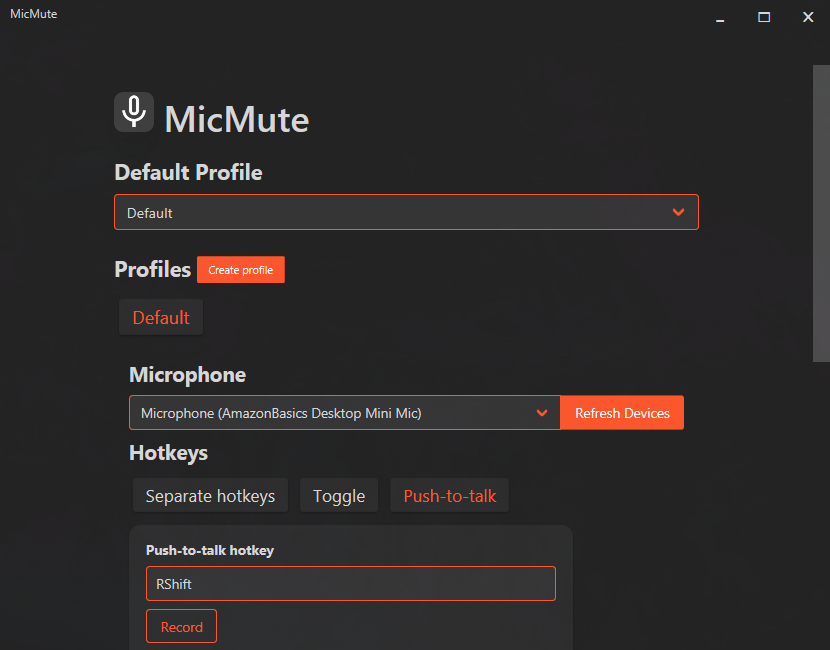
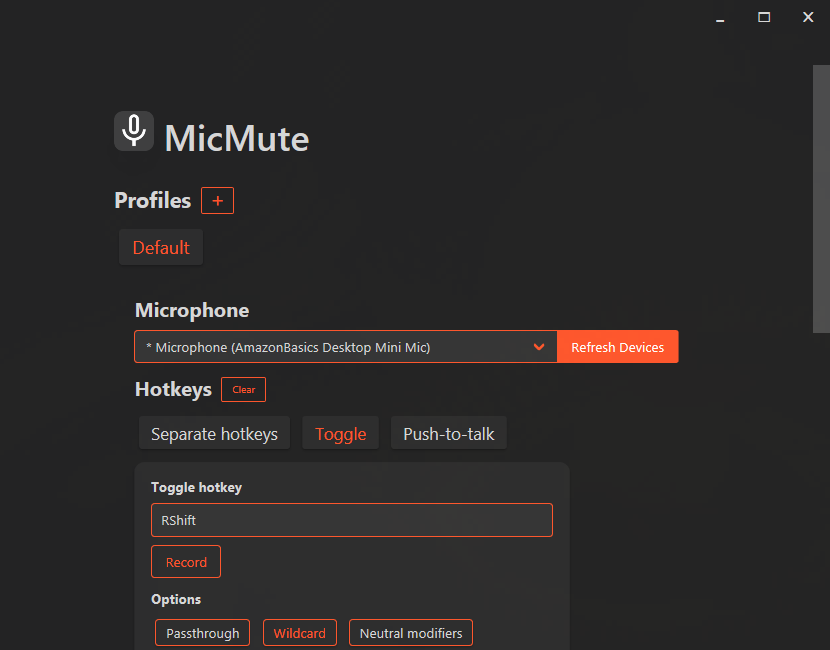
Update README.md

diff --git a/README.md b/README.md
@@ -15,151 +15,203 @@
 ## Features
 
    * Set up multiple profiles and link them to apps/games
+   * Control multiple microphones simultaneously 
    * Use separate hotkeys for Mute/Unmute or a single toggle/push-to-talk hotkey
-   * Optional sound and on-screen feedback
-   * AFK timeout (auto mute when the user is AFK for longer than a specified time interval)
-   * Auto-start on boot
-   * Very lightweight ( File size ≈ 1MB, CPU usage ≤ 1%, Memory usage ≤ 20MB )
-## Install using [Scoop](https://scoop.sh)
+   * Optional sound and on-screen feedback with ability to use custom sounds
+   * AFK timeout (auto mute when idling for longer than a specific time interval)
 
-   ```powershell
-      # Add the extras bucket
-      scoop bucket add extras
-      # Install MicMute
-      scoop install micmute
-   ```
-   ###### You can update MicMute using `scoop update micmute`, your config file will be saved between updates.
+## Installation
+### A. Install using [Scoop](https://scoop.sh)
 
-## Use standalone executable
-   You can [download MicMute](https://github.com/SaifAqqad/AHK_MicMute/releases/latest/download/MicMute.exe) and use it standalone.
+```powershell
+# Add the extras bucket
+scoop bucket add extras
+
+# Install MicMute
+scoop install micmute
+```
+
+   <small> You can update MicMute using `scoop update micmute`, your config file will be saved between updates.</small>
+
+### B. Use standalone executable
+   You can download [MicMute](https://github.com/SaifAqqad/AHK_MicMute/releases/latest/download/MicMute.exe) and use it standalone.
 
 ## Usage
+![The first time you launch MicMute, a configuration window will open](.\src\resources\configwindow_1.png)      
+<small>The first time you launch MicMute, a configuration window will open</small>
 
-On the first run, you'll be asked to set up a profile:
+1. Select your microphone from the list.
+2. Choose the hotkey type (Toggle, Push-to-talk or seperate hotkeys).
+3. Select the hotkey options you want. see [hotkey options](#Hotkey%20options).
+4. Click Record and press the key(s) combination for the hotkey, then click on Stop to save it.
+5. Select the feedback options you want. see [feedback options](#Feedback%20options).
+6. If you're setting up multiple profiles, you can link a profile to an app/game. see [linked applications](#Linked%20applications).
+7. If you want the microphone to be auto muted when you idle, type the amount of minutes to wait under AFK timeout.
+8. If you're setting up a PTT hotkey, you can change the delay between releasing the key and the audio cutting off by changing the PTT delay option.
+9. Click on Save profile.
 
-![](./src/resources/firstsetupdialog.png)
+### Notes
+* You can change a profile's name by right clicking it.
+* When Changing the microphone, make sure to clear the hotkey for the previous one before setting up the new one.
+* When you set up a hotkey for a microphone, a `*` will appear before the microphone's name
+<hr>
 
-Click OK and a new configuration window will open:
+### Hotkey options
+| Option            | Description                                                                                                                                                                                                                                                  |
+|-------------------|--------------------------------------------------------------------------------------------------------------------------------------------------------------------------------------------------------------------------------------------------------------|
+| Passthrough       | If this is turned off, the hotkey will only work for MicMute and will be hidden from the rest of the system. So turn this on if you want the hotkey to work for other apps.                                                                                  |
+| Wildcard          | If this is turned on, the hotkey will work even if you press extra modifiers, so for example if the hotkey is `Ctrl + M` and you press `Ctrl + Shift + M` , the hotkey will still be triggered.                                                              |
+| Neutral modifiers | If this is turned off, the hotkey can have a specific modifier (Right or Left) instead of a neutral one (example: `RCtrl` instead of `Ctrl`, this will only be triggered by the right control key). This option should be set *before* recording the hotkey. |
+<hr>
 
-![](./src/resources/configwindow_1.png)
+### Feedback options
+#### 1. Sound feedback
+Play a sound when muting/unmuting the microphones. You can also use [custom sounds](#1.%20Custom%20sounds).
+#### 2. On-screen feedback
+Show an OSD when muting/unmuting the microphones. 
 
+* You can change the OSD position (default position is the bottom center of the screen, above the taskbar).
+* You can exclude fullscreen apps/games from the OSD, this is needed for some games that lose focus when the OSD is shown.
 
-1. Choose your microphone from the drop down list.
+<details>
+<summary>OSD.gif</summary>
 
-2. Choose whether you want separate hotkeys for Mute and Unmute or a single Toggle/Push-to-talk hotkey.
-
-      ![](./src/resources/configwindow_2.png)
-
-
-3. Based on your choice, you will either need to setup both hotkeys or just one of them.
-        
-   - Click on 'Record' then press the key(s) you want.
-   - Turn on 'Wildcard' if you want the hotkey to be fired even if extra modifiers/keys are held down.
-   - Turn on 'Passthrough' if you don't want the key's native function to be blocked/hidden from the system.
-   - Turn off "Neutral modifiers" if you want to specify which key of the modifier pair to use (i.e. `Left Alt` or `Right Alt` instead of `Alt`) .
-      
-      ##### Using a neutral modifier (i.e. Alt) alone as a hotkey will turn on passthrough
-   
-4. Choose whether you want sound feedback when muting/unmuting the microphone or on-screen feedback or both.
-
-
-
-   <details><summary>On screen feedback</summary>
-   
-   ![](./src/resources/OSD.gif)
-   
-   </details>
-
-5. Choose whether you want the OSD to exclude fullscreen apps/games (this is needed for games that lose focus when the OSD is shown).
-
-7. Set up "AFK Timeout" if you want the microphone to be muted when you idle for longer than a set interval (in minutes).
-
-8. Click on "Select app" and choose an app's executable if you want to link the profile to that app (switch to the profile when the app is launched and switch back to default when it is closed)
-
-9. Click "Save profile"
-
-<details><summary><b>You can change the profile's name by right clicking the profile tag</b></summary> 
-
-![](./src/resources/edit_name.gif)
+![OSD](.\src\resources\OSD.gif)
 </details>
+<hr>
 
-#### Some options are not available in the GUI but can be changed in the [config file](#editing-the-config-file):
-* Mute on startup [#13](https://github.com/SaifAqqad/AHK_MicMute/issues/13)
-* Use custom sounds [#14](https://github.com/SaifAqqad/AHK_MicMute/issues/14)
-* Turn off switching-profile-osd [#15](https://github.com/SaifAqqad/AHK_MicMute/discussions/15)
+### Linked applications
+Link a profile to an app/game, when the app is launched, MicMute automatically switches to that profile, when the app closes, MicMute switches back to the default profile.
+<hr>
+
+### Global options
+These options are shared between all profiles.
+#### 1. Custom sounds
+ To use custom feedback sounds, turn on the option in the config UI, then make sure the sound files (`mp3`,`wav`) are in the same directory as `MicMute.exe` and rename them as:
+
+* **Mute sound**: `mute` 
+
+* **Unmute sound**: `unmute` 
+
+* **PTT on**: `ptt_on` 
+
+* **PTT off**: `ptt_off`
+
+#### 2. Mute on startup
+Mute the profile's microphones when switching to it.
+#### 3. Switching-profile OSD
+Show an OSD with the profile's name when switching to it.
+#### 4. UI Theme
+UI Theme can be set to `System Theme`, `Dark` or `Light`
+
+<small>This does *not* affect the tray icon color, which is always based on the system theme</small>
+<hr>
+
+### Controlling multiple microphones
+Starting with version [0.9.0](https://github.com/SaifAqqad/AHK_MicMute/releases/tag/0.9.0), You can have active hotkeys for multiple microphones simultaneously.
+To do this, just select another microphone from the list and setup hotkeys for it.
+
+When using this feature, the following applies:
+
+* The tray icon will be the static MicMute icon
+* The tray icon no longer acts as a toggle button, and the tray menu option to toggle the microphone is disabled.
+* The [On-screen feedback](#2.%20On-screen%20feedback) OSD will show the microphone name when muting/unmuting
+<hr>
+  
 ## Editing the config file
- Hold shift when asked to setup a profile or when clicking "Edit configuration" from the tray menu, and the config file will open in a text editor
+ Hold shift when asked to setup a profile or when clicking "Edit configuration" from the tray menu, and the config file will open in the default JSON editor
 
 ```json
 //config.json example 
 {
     "DefaultProfile": "Default",
     "MuteOnStartup": 0,
+    "PreferTheme": -1,
+    "SwitchProfileOSD": 1,
+    "UseCustomSounds": 0,
     "Profiles": [
         {
-            "afkTimeout": 2,
-            "ExcludeFullscreen": 1,
+            "afkTimeout": 0,
+            "ExcludeFullscreen": 0,
             "LinkedApp": "",
-            "Microphone": "Microphone (AmazonBasics Desktop Mini Mic)",
-            "MuteHotkey": "*RShift",
+            "Microphone": [
+                {
+                    "MuteHotkey": "~*RShift",
+                    "Name": "Default",
+                    "PushToTalk": 0,
+                    "UnmuteHotkey": "~*RShift"
+                }
+            ],
             "OnscreenFeedback": 1,
             "OSDPos": {
-                "x": "96",
-                "y": "998"
+                "x": -1,
+                "y": -1
             },
             "ProfileName": "Default",
-            "PushToTalk": 0,
+            "PTTDelay": 100,
             "SoundFeedback": 1,
-            "UnmuteHotkey": "*RShift",
             "UpdateWithSystem": 1
         }
-    ],
-    "SwitchProfileOSD": 1,
-    "UseCustomSounds": 0
+    ]
 }
 ```
-### Custom sounds
-To use custom feedback sounds, set `UseCustomSounds` to `1` then put the sound files (`mp3`,`wav`...) in the same directory as `MicMute.exe` and rename them as:
 
-**Mute sound**: `mute` 
+## CLI arguments
+| Argument                  | Description                                                                       |
+|---------------------------|-----------------------------------------------------------------------------------|
+| `/profile=<profile name>` | Startup with a specific profile.                                                  |
+| `/noUI`                   | Disable the configuration UI completely. This makes MicMute use alot less memory. |
+| `/debug`                  | Add shortcuts to `ListVars`, `ListHotkeys` and `listKeys`  in the tray menu.      |
 
-**Unmute sound**: `unmute` 
-
-**PTT on**: `ptt_on` 
-
-**PTT off**: `ptt_off`
-
+Example: `MicMute.exe "/profile=profile 1" /noUI /debug`
 ## Compile instructions
-##### Install [Scoop](https://scoop.sh) then run these commands in powershell
-1. Clone the repository
+<small>Note: Starting with version [0.9.0](https://github.com/SaifAqqad/AHK_MicMute/releases/tag/0.9.0), You can run `MicMute.ahk` directly without compiling it.</small>
+
+### 1. Install prerequisites
+You will need [AutoHotkey](https://www.autohotkey.com/), [upx](https://upx.github.io/) and [git](https://git-scm.com/download/win).
+
+You can install them using [scoop](https://scoop.sh):
+
+1. Install scoop 
     ```powershell
-    git clone https://github.com/SaifAqqad/AHK_MicMute.git;
-    cd .\AHK_MicMute\;
+    # This allows running powershell scripts 
+    # that are signed by a trusted publisher.
+    # You should type 'yes' when prompted.
+    Set-ExecutionPolicy RemoteSigned -scope CurrentUser;
+
+    # This runs the scoop installer script.
+    iwr -useb get.scoop.sh | iex;
     ```
-2. Install autohotkey
+2. Install prerequisites
     ```powershell
+    scoop install git upx;
     scoop bucket add extras;
     scoop install autohotkey;
     ```
-3. Install upx (optional)
+3. Copy upx to the compiler directory
     ```powershell
-    scoop install upx;
     cp "$(scoop prefix upx)\upx.exe" -Destination "$(scoop prefix autohotkey)\Compiler\";
     ```
-4. Run ahk2exe
-    ```powershell
-    ahk2exe /in ".\src\MicMute.ahk" /out ".\src\MicMute.exe";    # add `/compress 2` if upx was installed
-    ```
+### 2. Clone the repository
+    
+```powershell
+git clone https://github.com/SaifAqqad/AHK_MicMute.git;
+cd .\AHK_MicMute\;
+```
+### 3. Run the compiler
 
+```powershell
+ahk2exe /in ".\src\MicMute.ahk" /out ".\src\MicMute.exe" /compress 2;
+```
 ## Known issues
-* When running MicMute alongside [Microsoft Powertoys](https://github.com/microsoft/PowerToys), they might conflict with each other, which may result in the hotkeys not working at all. see [microsoft/PowerToys#2132](https://github.com/microsoft/PowerToys/issues/2132)
+* When running AutoHotkey alongside [Microsoft Powertoys](https://github.com/microsoft/PowerToys), they might conflict with each other, which may result in the hotkeys not working at all. see [microsoft/PowerToys#2132](https://github.com/microsoft/PowerToys/issues/2132).
 
 ## Libraries and resources used
 
 | Library                                                                | License                                                                        |
 |------------------------------------------------------------------------|--------------------------------------------------------------------------------|
-| [G33kDude/Neutron.ahk](https://github.com/G33kDude/Neutron.ahk)        | [MIT](https://github.com/G33kDude/Neutron.ahk/blob/master/LICENSE)     |
+| [G33kDude/Neutron.ahk](https://github.com/G33kDude/Neutron.ahk)        | [MIT](https://github.com/G33kDude/Neutron.ahk/blob/master/LICENSE)             |
 | [cocobelgica/JSON.ahk](https://github.com/cocobelgica/AutoHotkey-JSON) | [WTFPL](https://github.com/cocobelgica/AutoHotkey-JSON#json-and-jxon)          |
 | [Lexikos/VA.ahk](https://github.com/ahkscript/VistaAudio)              | [License](https://github.com/ahkscript/VistaAudio/blob/master/LICENSE)         |
-| [Bulma CSS framework](https://bulma.io/)                               | [MIT](https://github.com/jgthms/bulma/blob/master/LICENSE)             |
+| [Bulma CSS framework](https://bulma.io/)                               | [MIT](https://github.com/jgthms/bulma/blob/master/LICENSE)                     |
 | [Material Design icons](https://github.com/Templarian/MaterialDesign)  | [Apache 2.0](https://github.com/Templarian/MaterialDesign/blob/master/LICENSE) |
